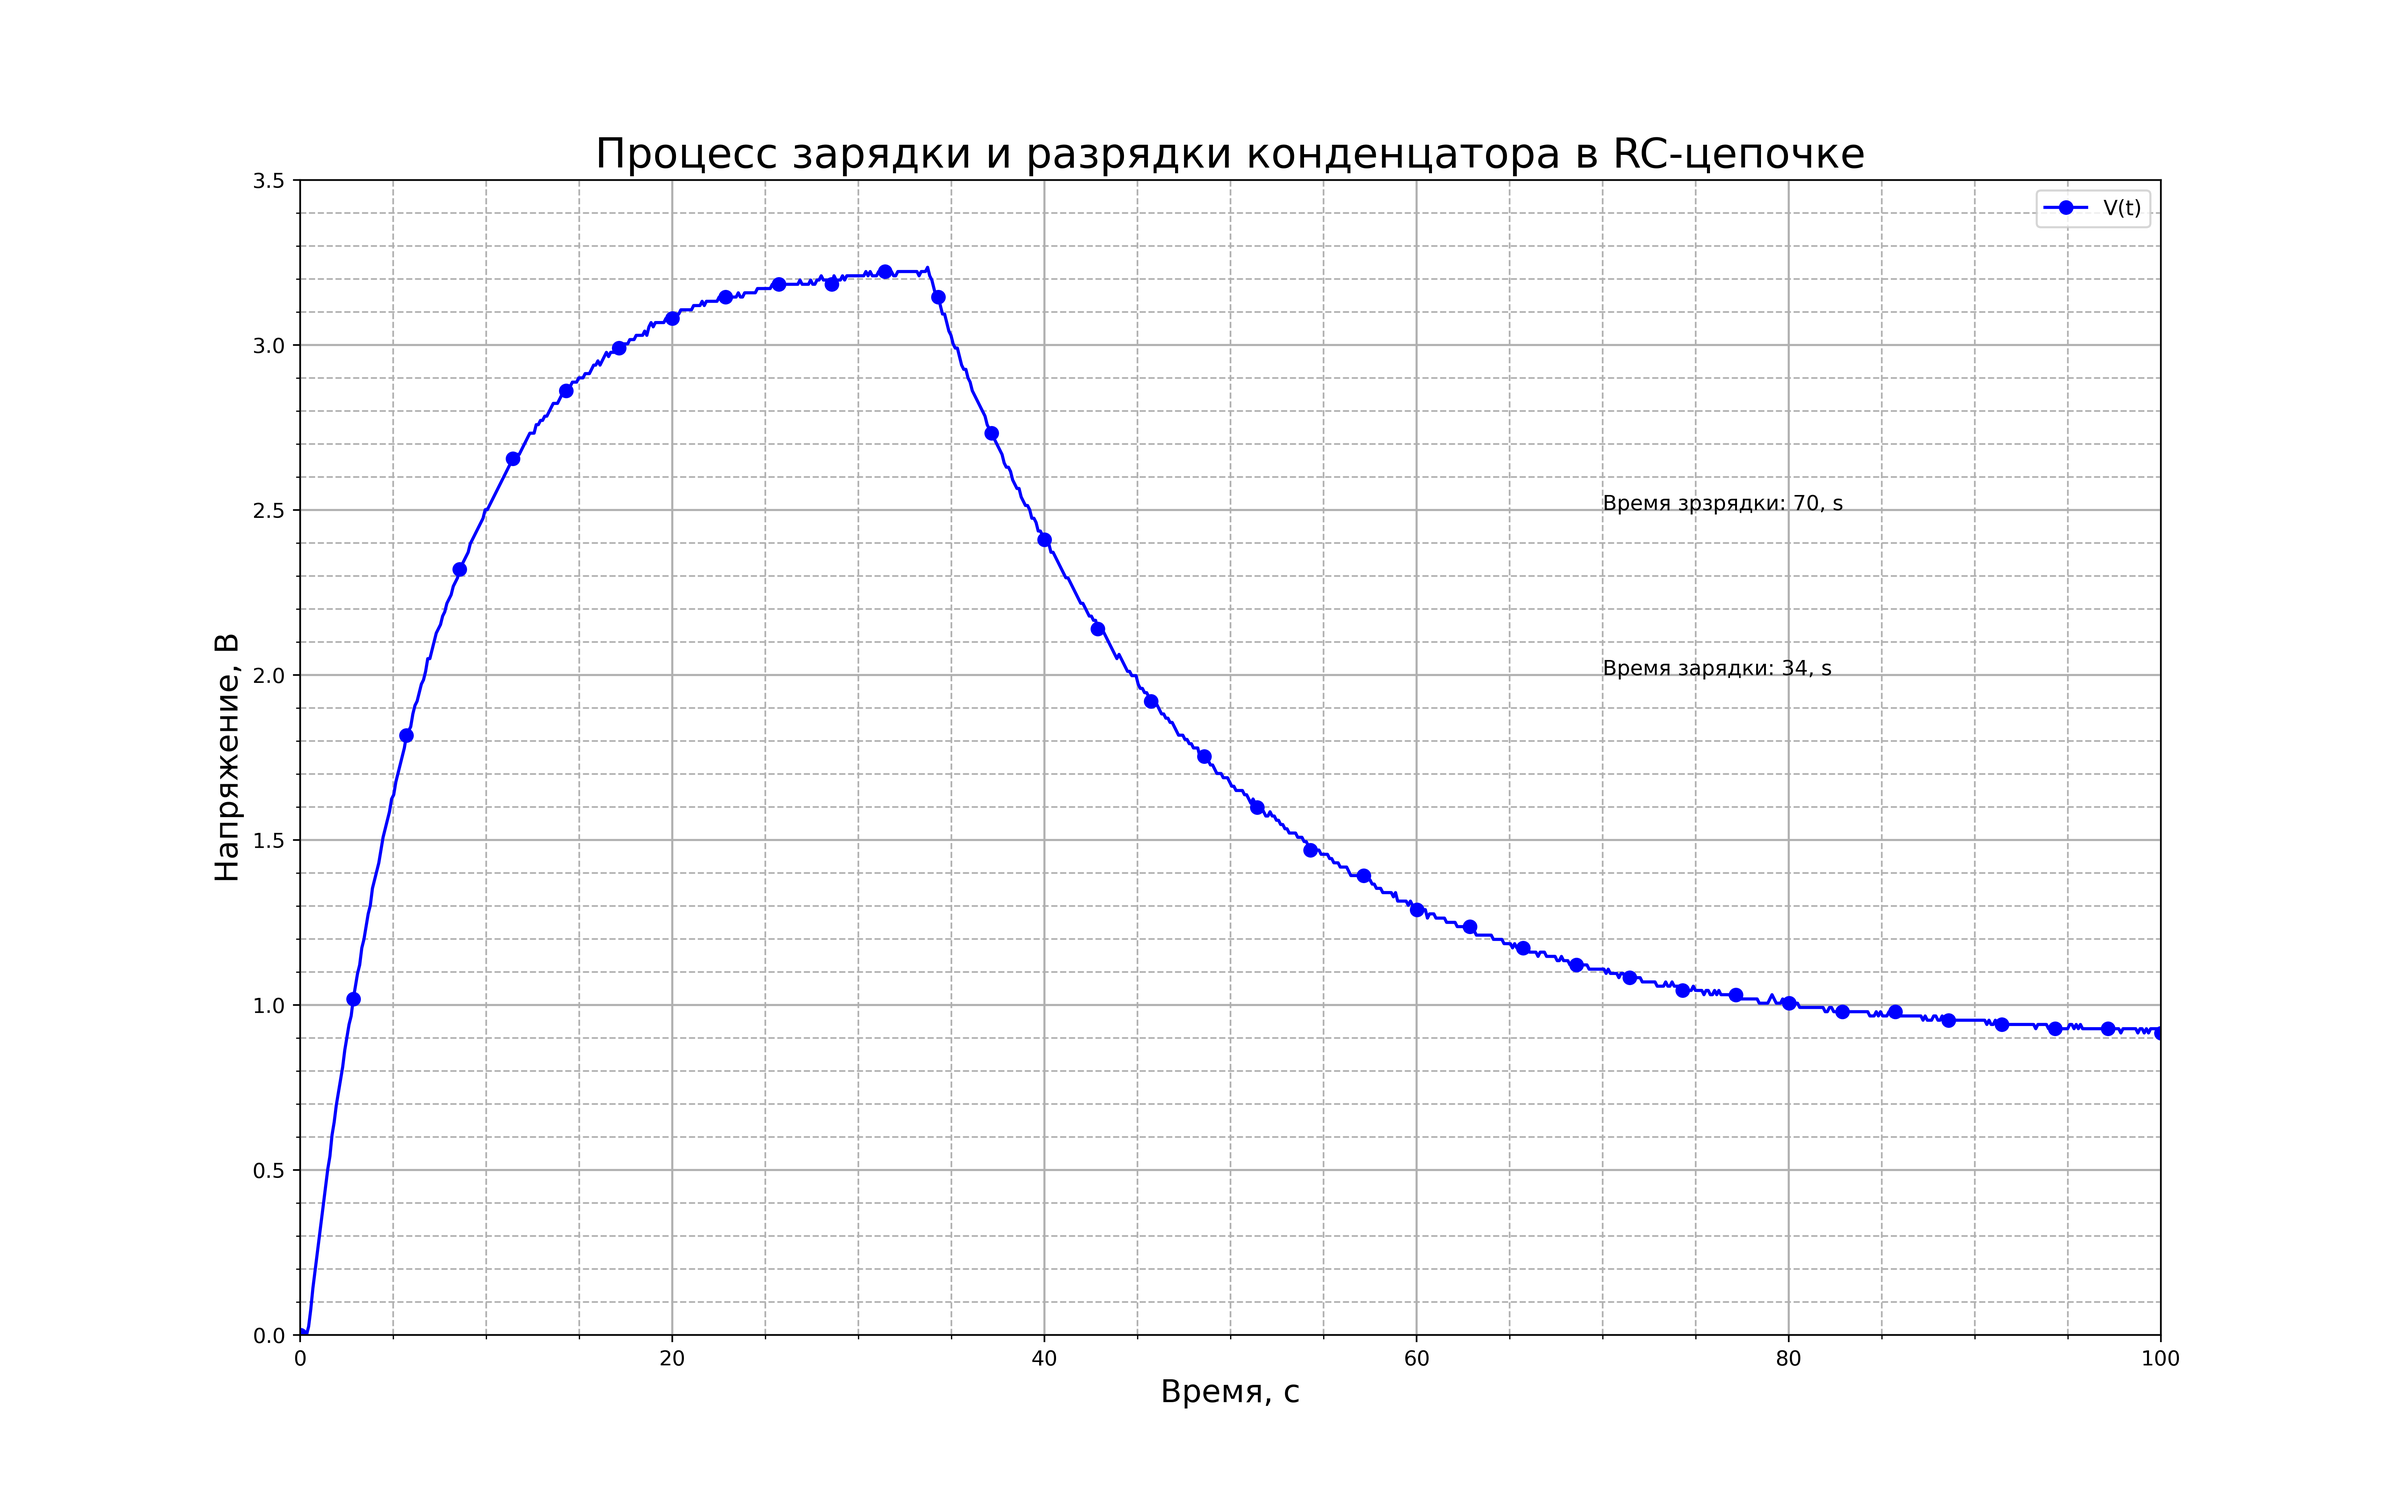
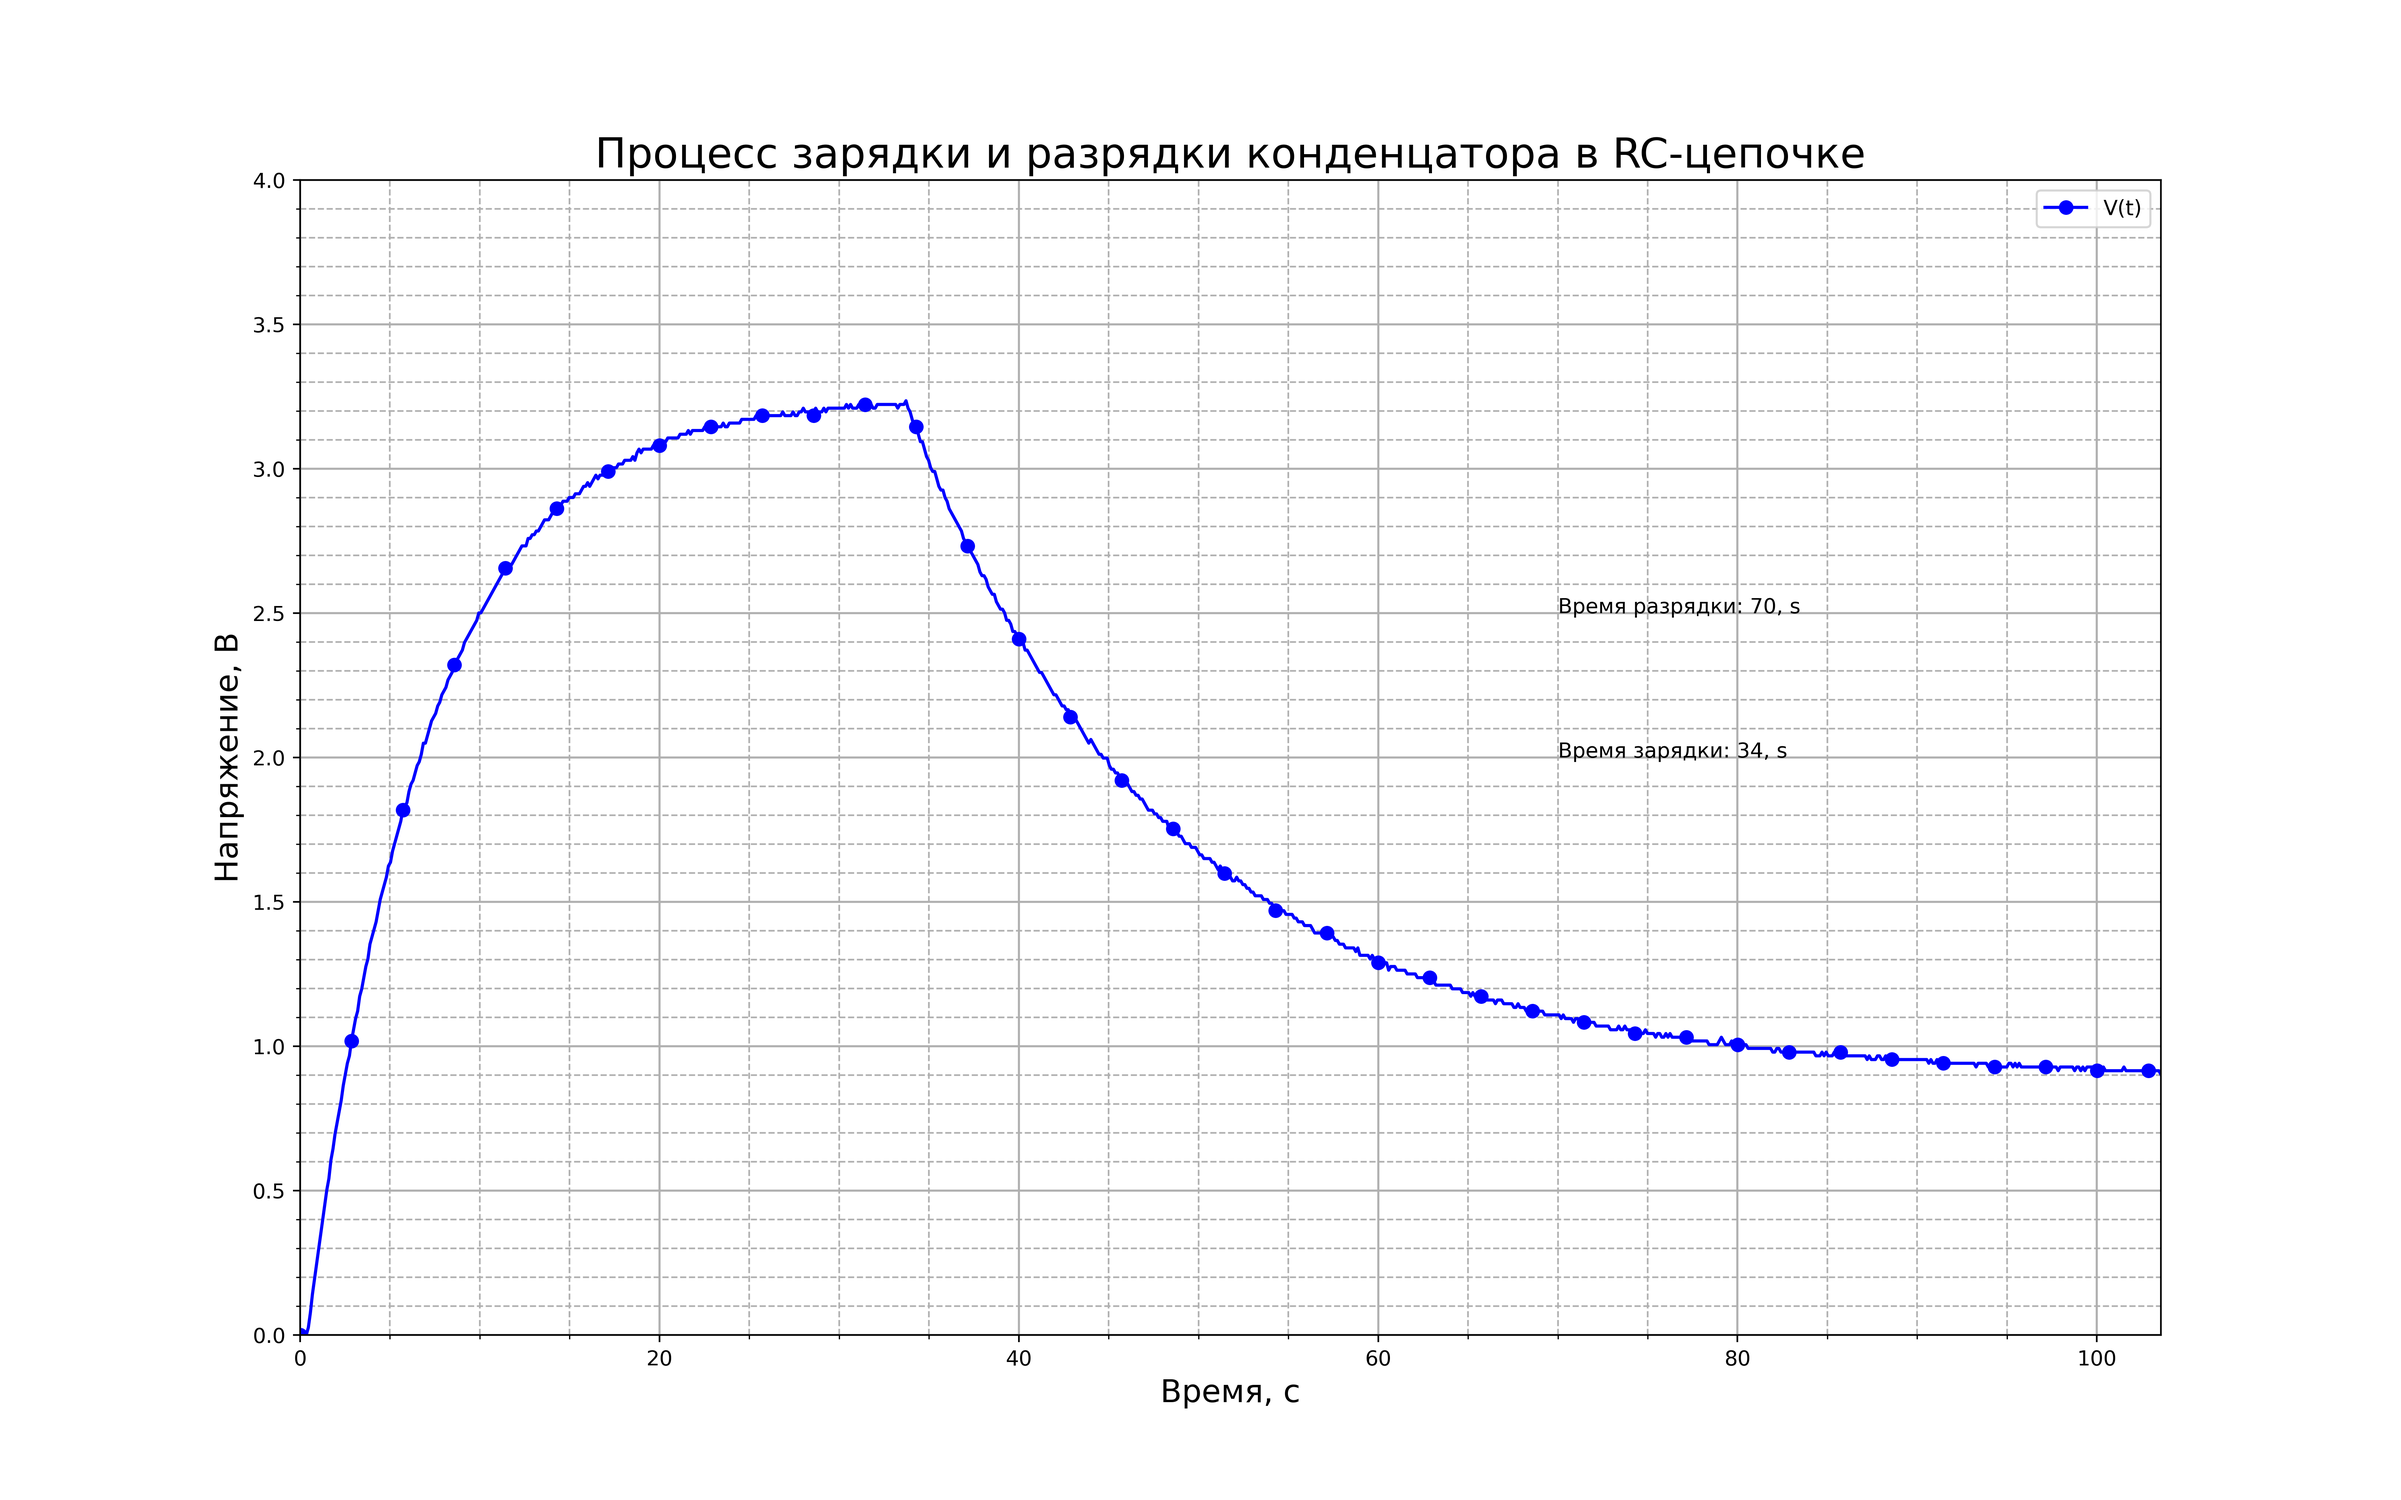
Add files via upload

Changed region(s): [[0.125, 0.125, 0.9062, 0.7188], [0.125, 0.75, 0.875, 0.875]]

diff --git a/Graph_edit.py b/Graph_edit.py
@@ -1,6 +1,7 @@
 import numpy
 import matplotlib.pyplot as plt
 from numpy import loadtxt
+import math
 
 
 with open("settings.txt", 'r') as f:
@@ -21,9 +22,9 @@ with open("settings.txt", 'r') as f:
         "Процесс зарядки и разрядки конденцатора в RC-цепочке", loc='center', fontsize=20)
 
     plt.xlabel('Время, с', fontsize=15)
-    plt.xlim(0, 100)
+    plt.xlim(0, expTime)
     plt.ylabel('Напряжение, B', fontsize=15)
-    plt.ylim(0, 3.5)
+    plt.ylim(0, math.ceil(max(loadtxt("data.txt") * discr)))
 
     plt.plot(numpy.linspace(0, expTime, int(expTime / quant)),
              [i * discr for i in loadtxt("data.txt")], 'o',  linestyle="solid", markevery=25, color='b', label="V(t)")
@@ -33,7 +34,7 @@ with open("settings.txt", 'r') as f:
     plt.annotate("Время зарядки: {}, s".format(round(numpy.argmax(
         loadtxt("data.txt")) * quant)), (70, 2), fontsize=10)
 
-    plt.annotate("Время зрзрядки: {}, s".format(round(
+    plt.annotate("Время разрядки: {}, s".format(round(
         expTime - numpy.argmax(loadtxt("data.txt")) * quant)), (70, 2.5), fontsize=10)
 
     plt.savefig("Capasitor_Graph")
